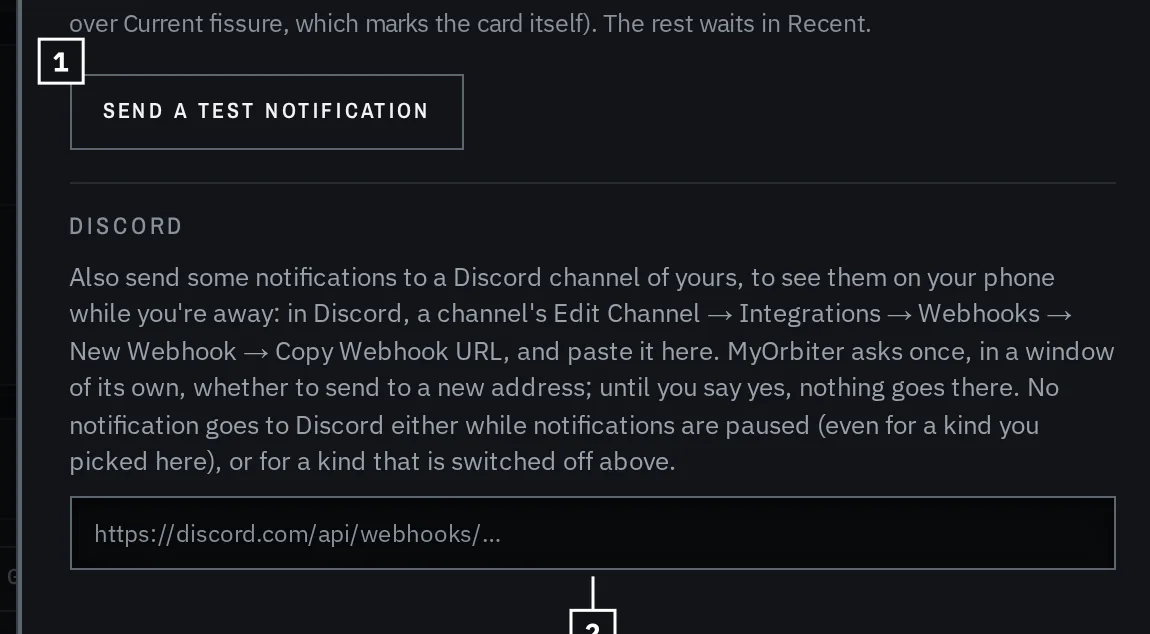
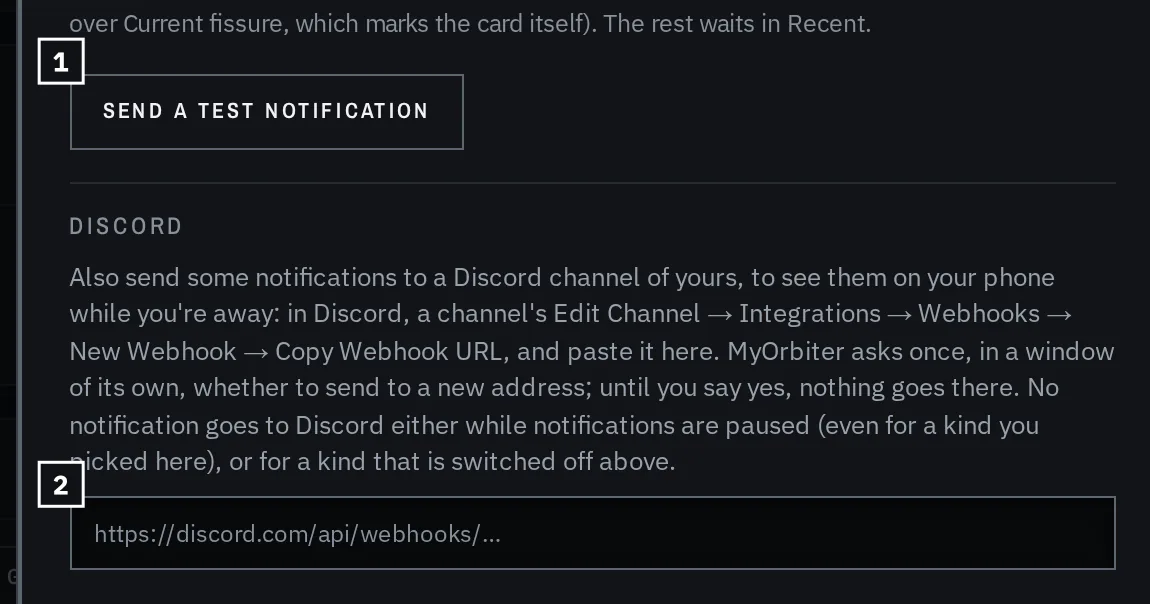
Notifications: the hint is true on a console; help picture notices-3 shows all of mark 2

diff --git a/src/lib/NoticeChoices.svelte b/src/lib/NoticeChoices.svelte
@@ -86,7 +86,7 @@
 </script>
 
 <div class="choices">
-  <p class="hint lead">What MyOrbiter tells you about. The kinds about your own listings and sales{console ? "" : ", whispers, the reward to take"} and what you set up to watch for start on; the rest start off: turn on the ones you want. What it tells you goes in Recent, under the envelope at the bottom of the sidebar.</p>
+  <p class="hint lead">What MyOrbiter tells you about. The kinds about your own listings{console ? ", messages on warframe.market" : " and sales, whispers, the reward to take"} and what you set up to watch for start on; the rest start off: turn on the ones you want. What it tells you goes in Recent, under the envelope at the bottom of the sidebar.</p>
   {#each groups as grp (grp.g)}
     <section class="grp">
       <header>

diff --git a/src/lib/help/settings.ts b/src/lib/help/settings.ts
@@ -387,7 +387,7 @@ const NOTICES: Walkthrough = {
         part: `${C} section.how > .testrow, ${C} section.how > .discord`,
         marks: [
           { at: `${C} section.how .testrow button.stamp`, is: "n", n: 1, from: "corner" },
-          { at: `${C} section.how .discord input`, is: "n", n: 2, from: "bottom" },
+          { at: `${C} section.how .discord input`, is: "n", n: 2, from: "corner" },
         ],
       },
     },
